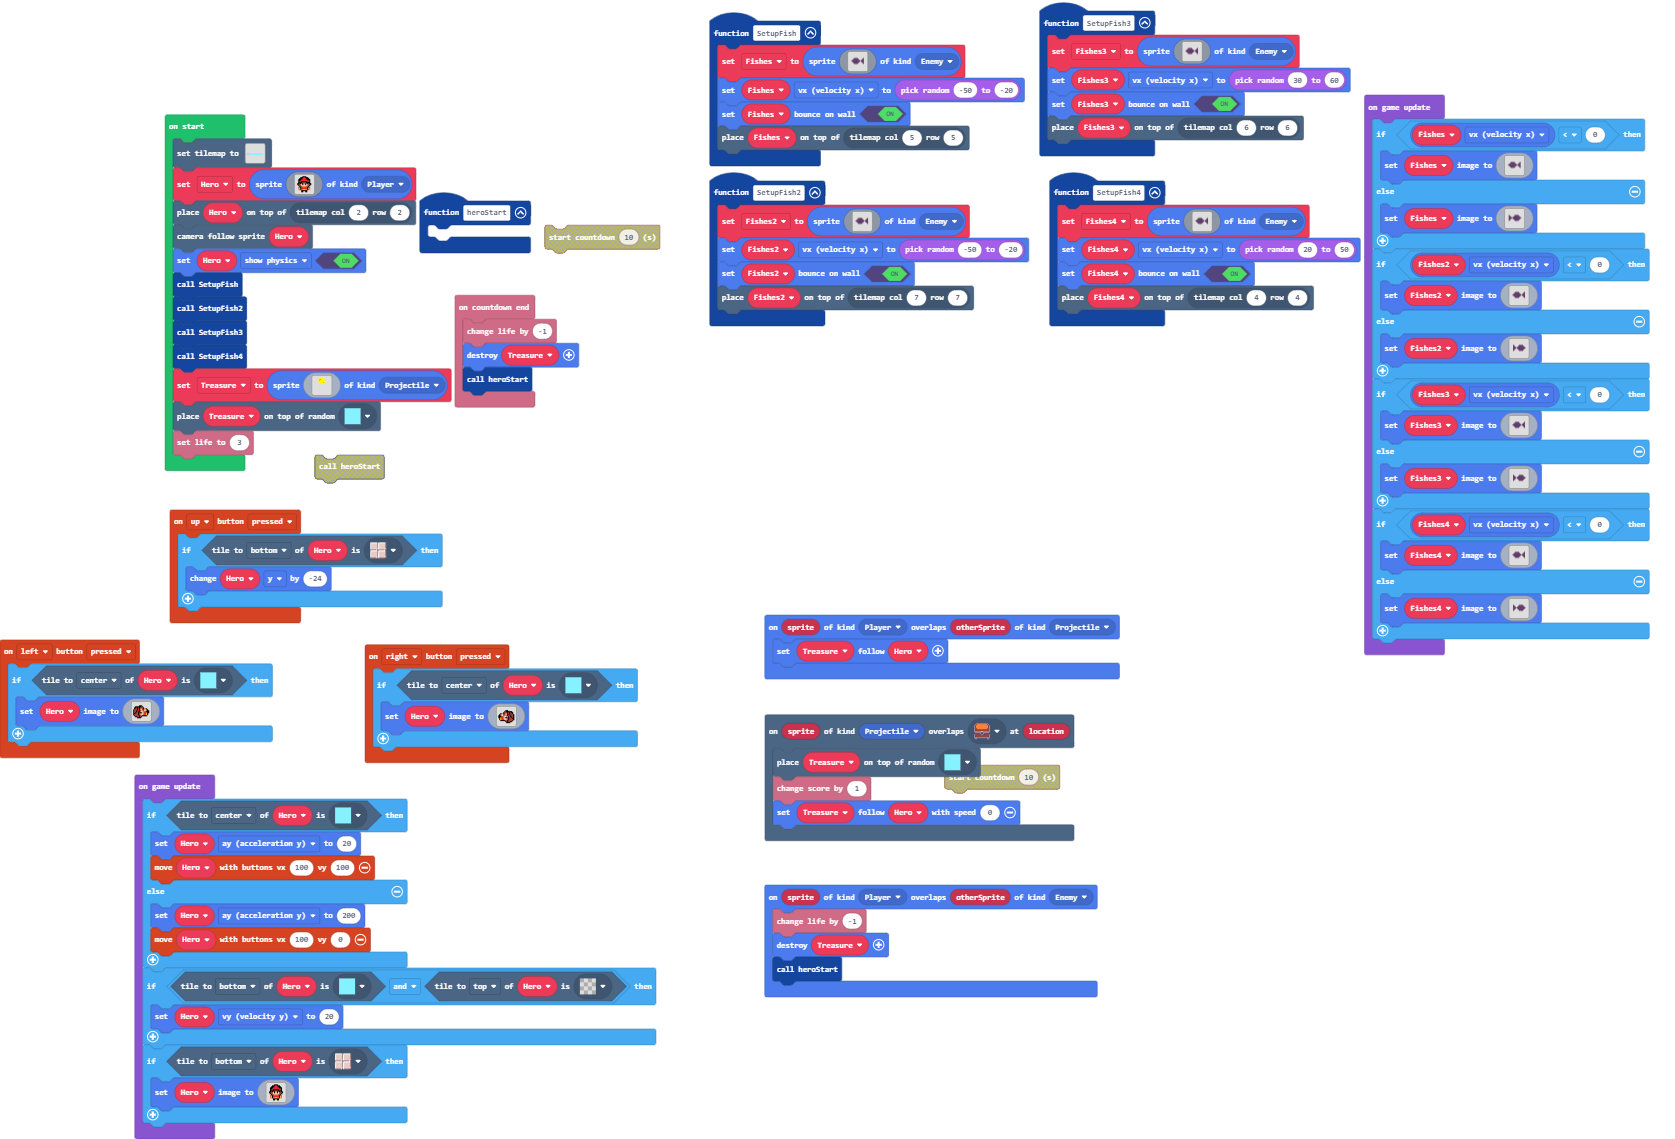
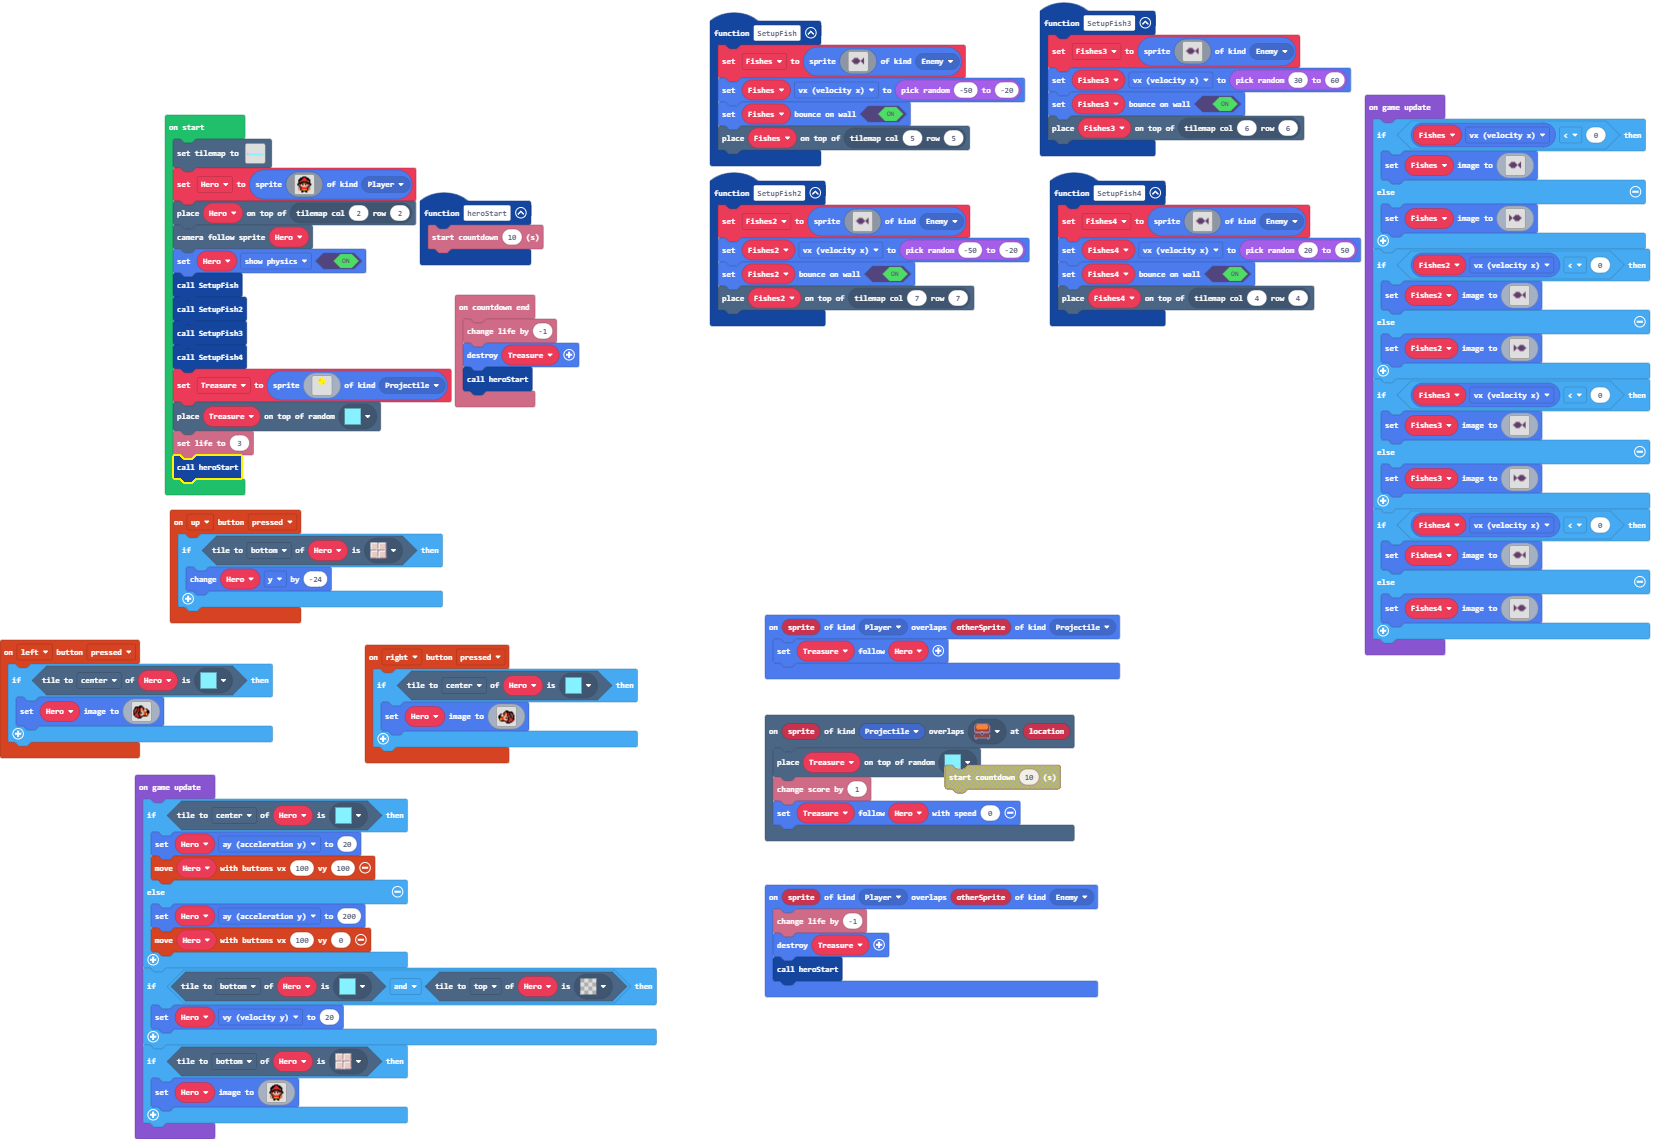
Update pxt.json, main.blocks, main.ts

diff --git a/main.ts b/main.ts
@@ -72,7 +72,7 @@ controller.left.onEvent(ControllerButtonEvent.Pressed, function () {
     }
 })
 function heroStart () {
-	
+    info.startCountdown(10)
 }
 info.onCountdownEnd(function () {
     info.changeLifeBy(-1)
@@ -228,6 +228,7 @@ Treasure = sprites.create(img`
     `, SpriteKind.Projectile)
 tiles.placeOnRandomTile(Treasure, assets.tile`myTile`)
 info.setLife(3)
+heroStart()
 game.onUpdate(function () {
     if (Fishes.vx < 0) {
         Fishes.setImage(img`
